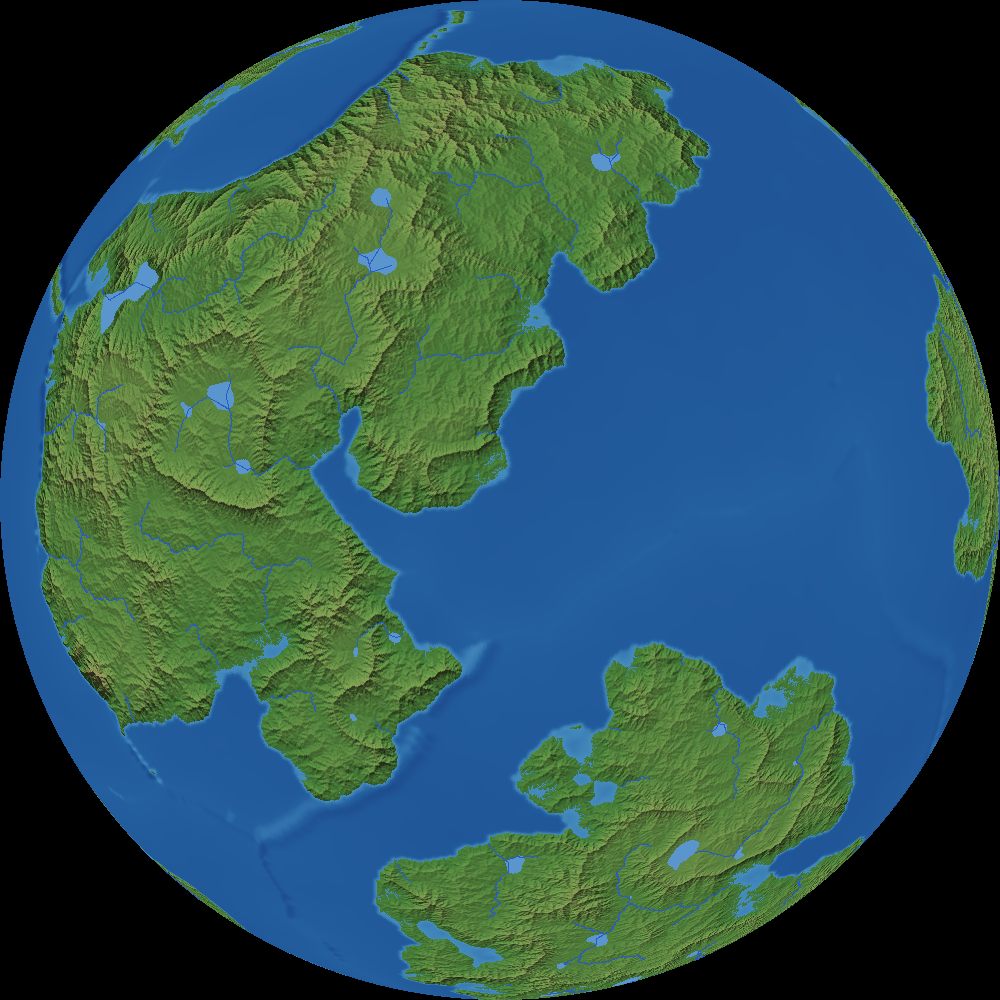
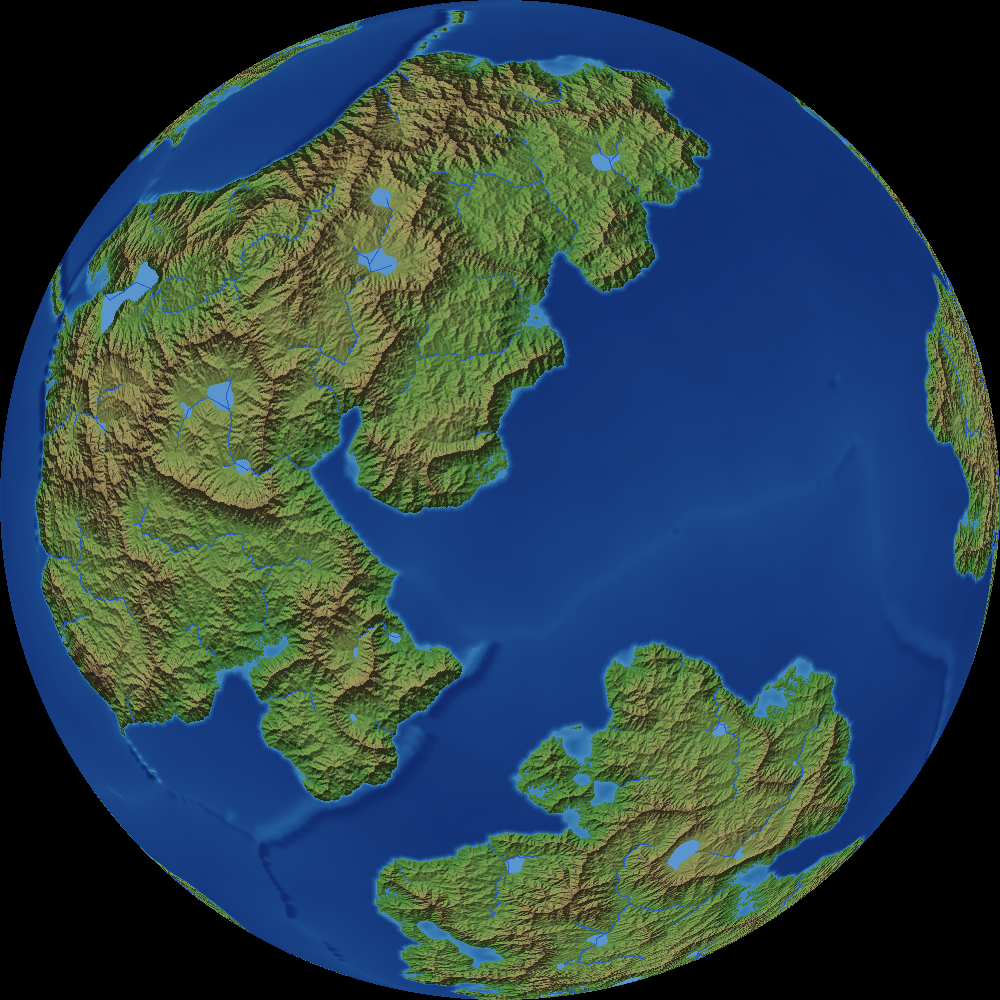
Set the land bake's relief to 120 m peaks and 60 m seas (worldgen W1)
The developer's taste call 1: ranges to 120 m and seas to 60 m, the
worldgen proposal, over ADR 0021's 50 and 25. It is the bake's last, linear
step, so time is unchanged: Terra 17.5 s, the huge planet 105.7 s. Land on
seed 1: median 20 m, p99 62 m.

Taller heights compress worse: 3.6 MB for Terra, 13.3 MB for the huge
planet, over the 10 MB proposal. The developer: file size matters little,
performance does; recorded in the README.

diff --git a/prototypes/world-bake/src/bake.rs b/prototypes/world-bake/src/bake.rs
@@ -14,9 +14,9 @@ use std::time::Instant;
 /// on the command line, nowhere else.
 #[derive(Clone, Debug)]
 pub struct Params {
-    /// TASTE CALL: the highest land over the sea, metres (ADR 0021 today: 50; worldgen proposal: 120).
+    /// TASTE CALL, decided 2026-11-11: 120 m (ADR 0021 had 50). The highest land over the sea, metres.
     pub mountain_m: f32,
-    /// TASTE CALL: the deepest sea under it, metres (ADR 0021 today: 25; worldgen proposal: 60).
+    /// TASTE CALL, decided 2026-11-11: 60 m (ADR 0021 had 25). The deepest sea under it, metres.
     pub sea_depth_m: f32,
     /// The share of the surface under the sea (ADR 0021: 55 %).
     pub ocean_share: f32,
@@ -52,8 +52,8 @@ pub struct Params {
 impl Default for Params {
     fn default() -> Params {
         Params {
-            mountain_m: 50.0,
-            sea_depth_m: 25.0,
+            mountain_m: 120.0,
+            sea_depth_m: 60.0,
             ocean_share: 0.55,
             cell_m: 8.0,
             coarse: 4,

diff --git a/prototypes/world-bake/README.md b/prototypes/world-bake/README.md
@@ -7,11 +7,13 @@ under 10 MB on disk, under 100 MB of server RAM. The answers are measured below.
 
 **Answer.** Yes for time and seams; memory is over the proposal.
 - **Time:** Terra bakes in **18.4 s** and the huge planet in **99.3 s** (release build, this PC), with
-  the higher plains the developer chose (below).
+  the higher plains and the 120/60 m relief the developer chose (below). The relief is the last, linear
+  step and costs nothing; the huge planet measured 105.7 s once at 120 m.
 - **Determinism:** the same seed gives the same hash twice, and another seed a different one.
 - **Rivers:** every river runs downhill to the sea or a lake. This is a test, seen failing first.
 - **Seams:** the seams and corners do not show, after one fix (below).
-- **Disk:** the result is **2.7 MB** for Terra and **9.8 MB** for the huge planet, compressed. That is
+- **Disk:** the result is **3.6 MB** for Terra and **13.3 MB** for the huge planet, compressed, at 120 m
+  of relief. The developer: file size matters little, performance does. That is
   heights, plates and rivers only; W2's full record will be bigger.
 - **Memory (over the proposal):** the bake process peaks at **174 MB** for Terra and **673 MB** for the
   huge planet.
@@ -81,7 +83,7 @@ Seconds per stage, seed 1:
 | 4 rivers and lakes | 0.02 | 0.09 |
 | **total** | **18.37** (budget 30) | **99.25** (budget 120) |
 | peak working set, MB | 174 | 673 |
-| on disk, gz: heights as i16 dm, plates, rivers | 2.7 MB | 9.8 MB |
+| on disk, gz: heights as i16 dm, plates, rivers | 2.7 MB (3.6 at 120 m) | 9.8 MB (13.3 at 120 m) |
 | uncompressed | 10.7 MB | 43.1 MB |
 
 - **Seed to seed:** 12 Terra seeds took 17 to 20 s each. A second run of seed 1 took 19.9 s.
@@ -102,16 +104,17 @@ Seconds per stage, seed 1:
   2 x 4 bytes per cell: 28 MB for Terra and 113 MB for the huge planet as f32.
   - The bake's peak can come down by storing directions as i16 or computing them, by not cloning h each
     step, and by a flat neighbour table instead of the HashMap. That is W2's work.
-- **Disk:** 2.7 MB holds the height (i16, decimetres), the plate of each cell and the river segments.
+- **Disk:** 2.7 MB at 50 m relief, 3.6 MB at 120 m (taller heights compress worse), holds the height (i16, decimetres), the plate of each cell and the river segments.
   W2 adds rock, soil, climate and biome per cell (worldgen.md: about 16 bytes). These are smooth fields
-  and compress well, but the huge planet is already at 9.8 MB, so **the huge planet will exceed 10 MB**
-  unless the stored map is coarser than 8 m there.
+  and compress well. At 120 m the huge planet is already 13.3 MB, over the 10 MB proposal. The
+  developer said file size matters little next to performance (2026-11-11), so this is accepted, not a
+  problem to fix.
 
 ### Determinism
 - `cargo test`: the same seed twice gives the same hash, and another seed a different one (small planet).
 - Terra, run twice:
-  - seed 1: `b3bb565958c98537` and `b3bb565958c98537`;
-  - seed 2: `47fc10f775682e0b`.
+  - seed 1: `dc857243a29b98c1` and `dc857243a29b98c1`;
+  - seed 2: `d7537fe44cdb9183` (both at 120/60 m).
 - **How:** every queue breaks ties by cell index, every sum runs in a fixed order, and rayon only maps
   cells to values one by one. The sea level is `select_nth_unstable` (deterministic) and then a fixed
   bisection.
@@ -191,6 +194,10 @@ Seconds per stage, seed 1:
   - **The price is lakes:** 49 to 432 per seed (1.5 % of the land on seed 1), mostly small basins where
     uplift outruns the rivers. Seed 11 is a lake district.
   - Stronger plains (0.5 / 1.0) gave more lakes for 2 m more of median height, so I stopped at 0.35 / 0.8.
+- **Relief 120 m / 60 m (the developer's call, 2026-11-11):** the defaults in `Params`.
+  - Land on seed 1: half above 20 m, 90 % under 41 m, 99 % under 62 m.
+  - Over the 12 seeds the median land is 19 to 35 m. Seed 11 is the highest: median 35 m, p99 85 m.
+  - The colours are by absolute metres, so the sheets now show brown uplands and grey and white peaks.
 - **The shape stays across the variants:** relief is the last, linear step, so the three variants are one
   shape at three heights. At 200 m the snow line shows; at 50 m the coast range is a hill.
 
